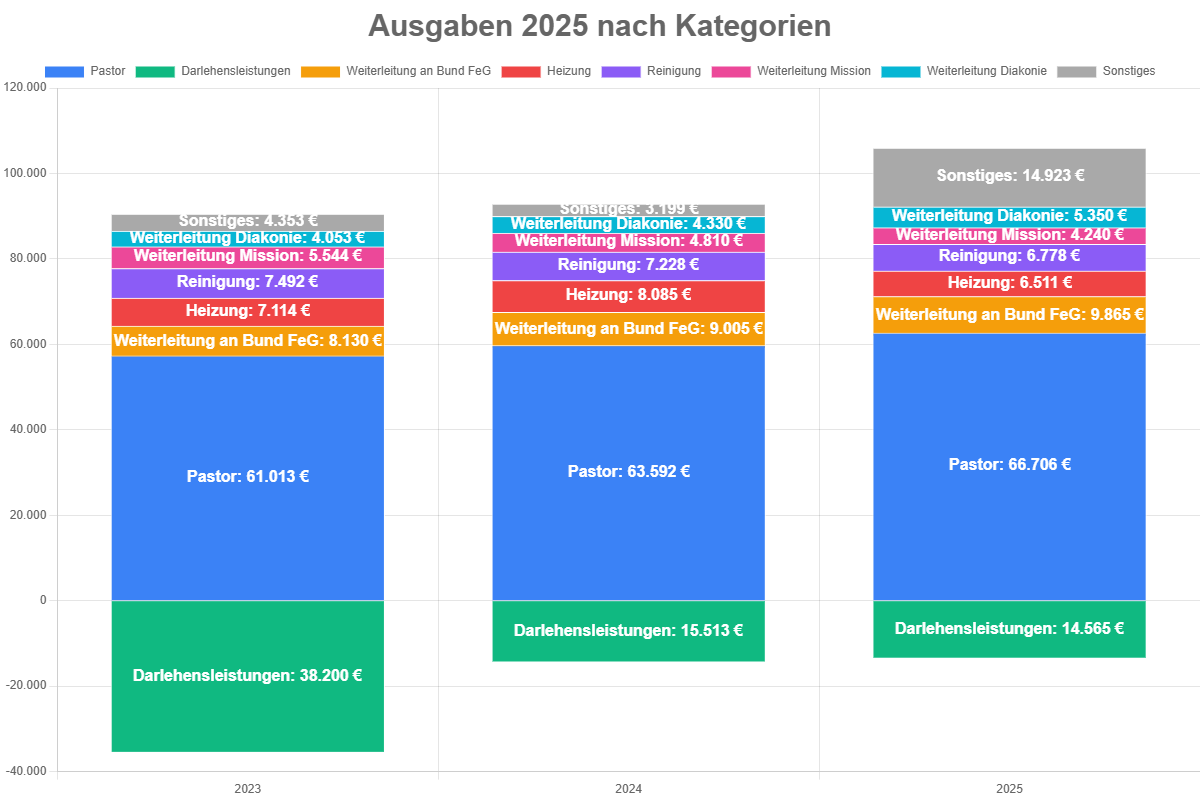
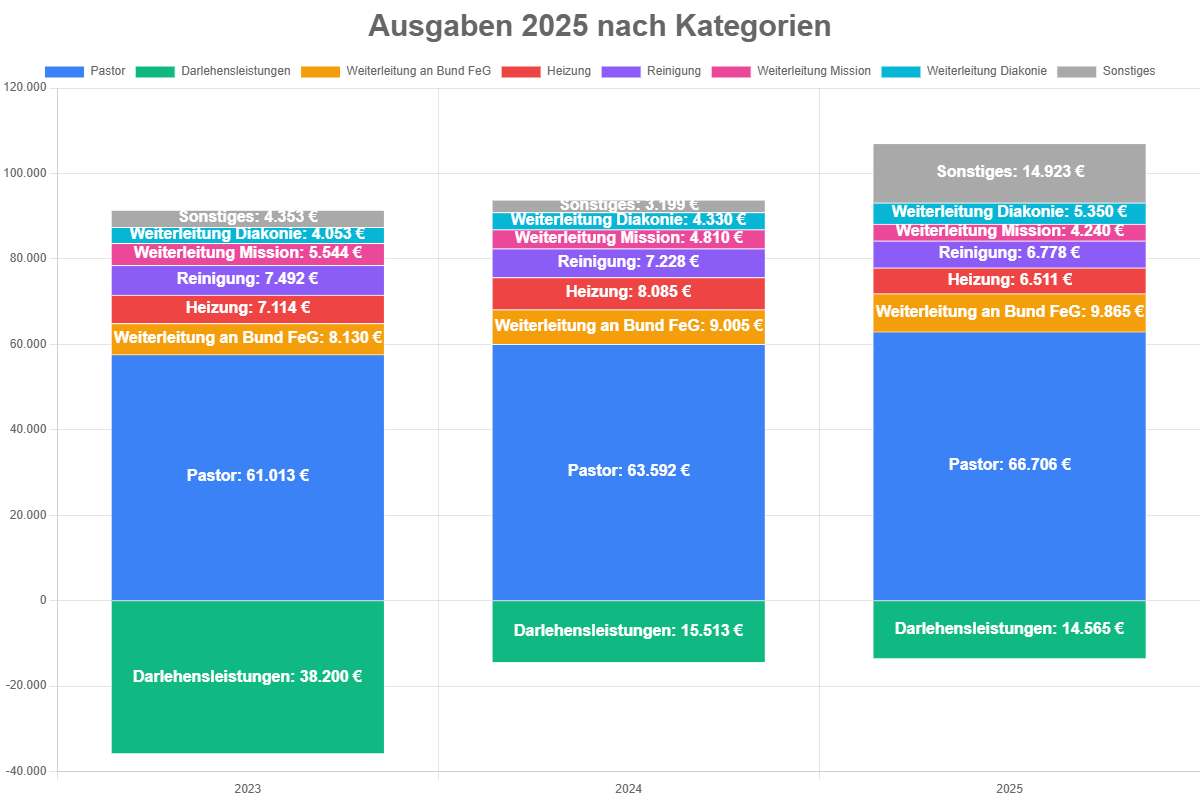
chore: Sicherung vor Datenveränderung

diff --git a/lib/generate-einnahmen-chart.js b/lib/generate-einnahmen-chart.js
@@ -31,7 +31,7 @@ async function generateEinnahmenChartPlaywright(reportYear, options = {}) {
   const titlePart = JSON.stringify({ display: true, text: `Einnahmen ${year}`, font: { size: 30 } }, null, 2);
   const legendPart = JSON.stringify({ position: 'top' }, null, 2);
   const formatterFn = `function(value, context) { try { var label = (context && context.dataset && context.dataset.label) ? context.dataset.label : ''; var v = (typeof value === 'number') ? value : (value && value.y !== undefined ? value.y : 0); var n = Math.round(Number(v) || 0); return (label ? label + ': ' : '') + n.toLocaleString('de-DE') + ' €'; } catch (e) { return '' + value; } }`;
-  const datalabelsPart = `{"color":"#ffffff","anchor":"center","align":"center","padding":{"left":6},"font":{"weight":"bold","size":16},"formatter":${formatterFn}}`;
+  const datalabelsPart = `{"color":"#ffffff","anchor":"center","align":"center","padding":{"left":6},"font":{"weight":"bold","size":12},"formatter":${formatterFn}}`;
   const optionsPart = `{"indexAxis":"x","plugins":{"title":${titlePart},"legend":${legendPart},"datalabels":${datalabelsPart}},"scales":{"x":{"stacked":true},"y":{"stacked":true}},"responsive":false,"maintainAspectRatio":true}`;
   const cfgSource = `const cfg = {"type":"bar","data":${dataPart},"options":${optionsPart}};`;
   const html = `<!doctype html><html><head><meta charset="utf-8"><style>body{margin:0}canvas{display:block}</style></head><body><canvas id="chart" width="1200" height="800"></canvas><script src="https://cdn.jsdelivr.net/npm/chart.js"></script><script src="https://cdn.jsdelivr.net/npm/chartjs-plugin-datalabels"></script><script>${cfgSource}Chart.register(ChartDataLabels);const ctx=document.getElementById('chart').getContext('2d');const chart=new Chart(ctx,cfg);window.__chart_ready=true;</script></body></html>`;

diff --git a/Daten/result/Einnahmen_2025.html b/Daten/result/Einnahmen_2025.html
@@ -122,4 +122,4 @@
   }
 },"legend":{
   "position": "top"
-},"datalabels":{"color":"#ffffff","anchor":"center","align":"center","padding":{"left":6},"font":{"weight":"bold","size":16},"formatter":function(value, context) { try { var label = (context && context.dataset && context.dataset.label) ? context.dataset.label : ''; var v = (typeof value === 'number') ? value : (value && value.y !== undefined ? value.y : 0); var n = Math.round(Number(v) || 0); return (label ? label + ': ' : '') + n.toLocaleString('de-DE') + ' €'; } catch (e) { return '' + value; } }}},"scales":{"x":{"stacked":true},"y":{"stacked":true}},"responsive":false,"maintainAspectRatio":true}};Chart.register(ChartDataLabels);const ctx=document.getElementById('chart').getContext('2d');const chart=new Chart(ctx,cfg);window.__chart_ready=true;</script></body></html>
+},"datalabels":{"color":"#ffffff","anchor":"center","align":"center","padding":{"left":6},"font":{"weight":"bold","size":12},"formatter":function(value, context) { try { var label = (context && context.dataset && context.dataset.label) ? context.dataset.label : ''; var v = (typeof value === 'number') ? value : (value && value.y !== undefined ? value.y : 0); var n = Math.round(Number(v) || 0); return (label ? label + ': ' : '') + n.toLocaleString('de-DE') + ' €'; } catch (e) { return '' + value; } }}},"scales":{"x":{"stacked":true},"y":{"stacked":true}},"responsive":false,"maintainAspectRatio":true}};Chart.register(ChartDataLabels);const ctx=document.getElementById('chart').getContext('2d');const chart=new Chart(ctx,cfg);window.__chart_ready=true;</script></body></html>
